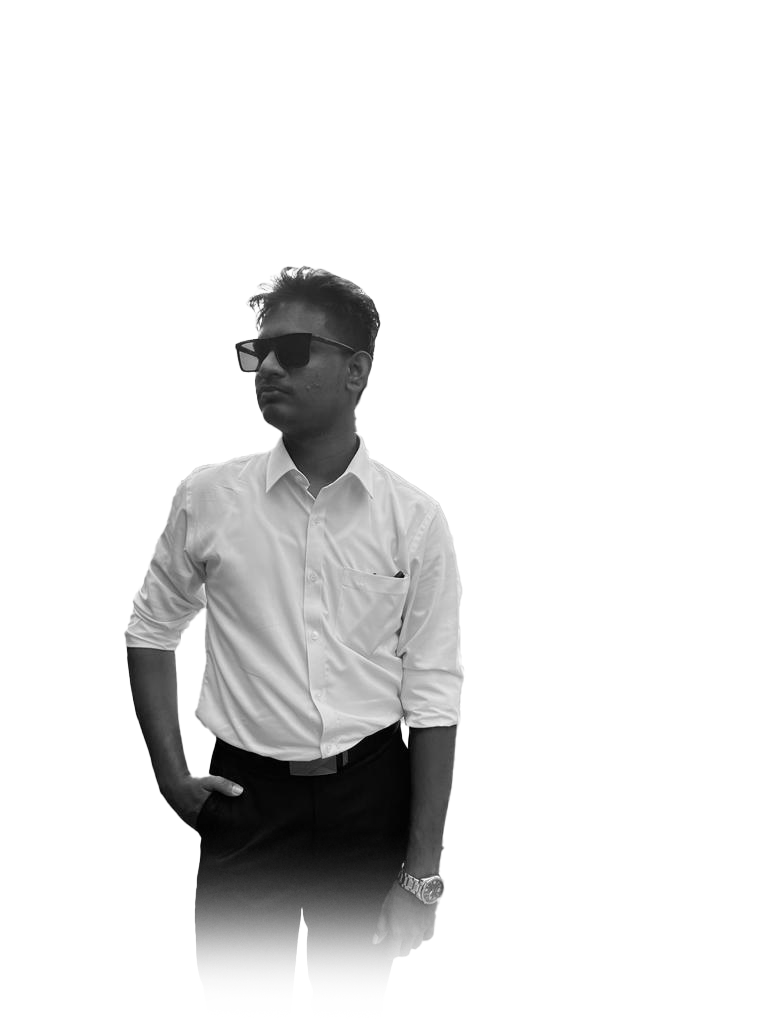
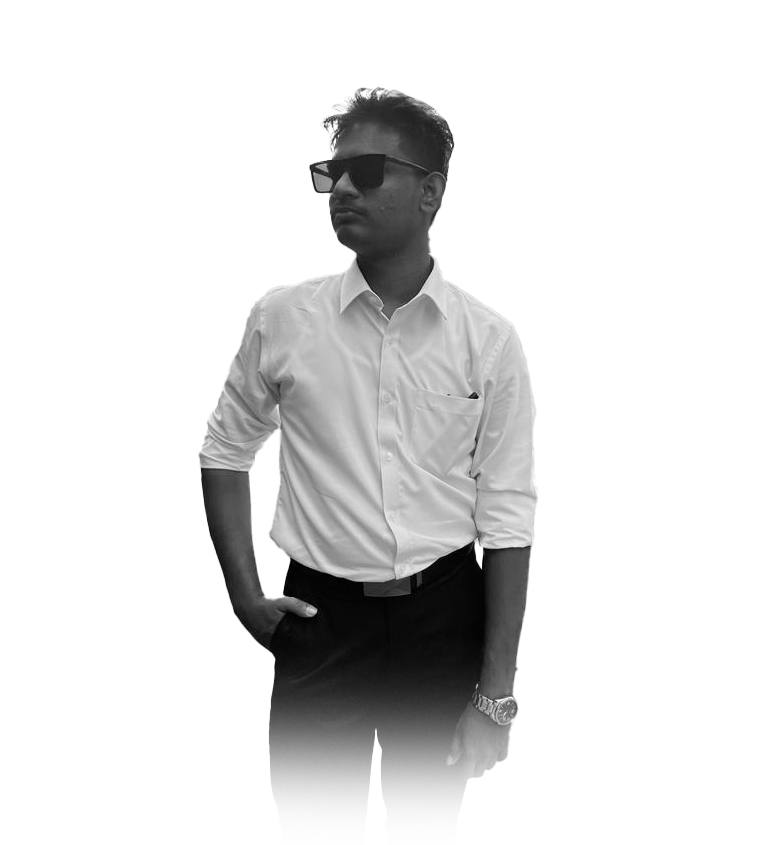
fix: Profile img

Changed region(s): [[0.1562, 0.0923, 0.7188, 0.9538]]

diff --git a/src/pages/Home.jsx b/src/pages/Home.jsx
@@ -195,7 +195,7 @@ const Home = ({ darkMode, onSwipeLeft, onSwipeRight }) => {
                 <img
                   src={profileImg}
                   alt="Profile"
-                  className="w-1/4 h-1/4 sm:w-64 sm:h-80 lg:w-auto lg:h-auto object-cover rounded-lg"
+                  className="w-96 h-full sm:w-52 sm:h-72 lg:w-5/6 lg:h-5/6 object-cover"
                 />
               </motion.div>
             </div>
@@ -209,7 +209,7 @@ const Home = ({ darkMode, onSwipeLeft, onSwipeRight }) => {
             >
               <svg
                 viewBox="0 0 400 400"
-                className="w-64 h-64 sm:w-80 sm:h-80 lg:w-96 lg:h-96 text-emerald-300"
+                className="w-72 h-72 sm:w-auto sm:h-auto lg:w-auto lg:h-auto text-emerald-300"
               >
                 <path
                   d="M200,50 C280,50 350,120 350,200 C350,280 280,350 200,350 C120,350 50,280 50,200 C50,120 120,50 200,50 Z"
